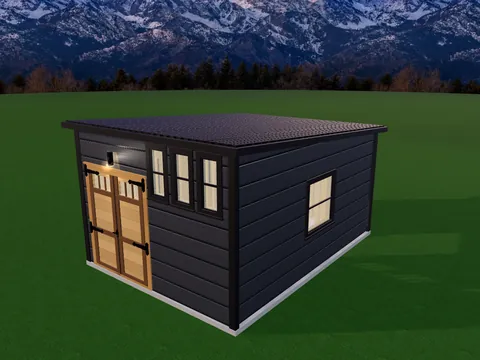
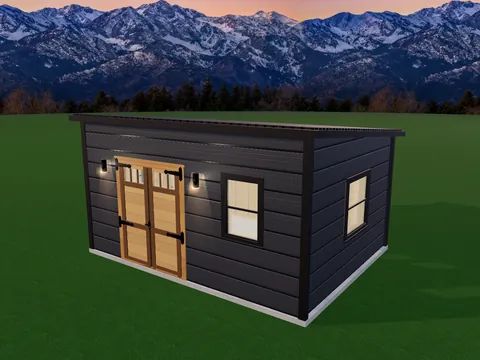
Modern Studio v2: one big Black Vinyl 24x36 window (head level with the door head) and a porch light each side of the cedar double door, on a 16x12 so nothing crowds; re-rendered thumbnail and home lean-to frames; soft brand-blue attention pulse on every link into the 3D designer site-wide (off with

diff --git a/designer.html b/designer.html
@@ -2938,23 +2938,26 @@ var STARTER_BUILDS = [
    windows:[{wall:'right',pos:0.3,w:24,h:30,type:'White Vinyl 24x30'},{wall:'right',pos:0.7,w:24,h:30,type:'White Vinyl 24x30'}],
    porchLights:[{wall:'front',pos:0.12,style:'modern'},{wall:'front',pos:0.88,style:'modern'}],
    addons:{flowerboxes:true, fbColor:'white', cupola:'copper'}}},
- {k:'modern-studio', name:'Modern Studio', sub:'12×16 Lean-To · Cedar doors, vertical transoms & power', badge:'Modern',
+ {k:'modern-studio', name:'Modern Studio', sub:'16×12 Lean-To · Cedar doors, big vertical window & 2 porch lights', badge:'Modern',
   img:'designer-starters/modern-studio.webp',
-  cfg:{style:'leanto', w:12, l:16, h:9, siding:'horizontal',
+  cfg:{style:'leanto', w:16, l:12, h:9, siding:'horizontal',
    sidingColor:0x3C3F43, trimColor:0x1A1A1A, roofColor:0x1A1A1A, roofType:'metal', ovh:6, ovType:'all4', soffit:'cedar',
    foundation:'pad', elec:'core',
-   doors:[{wall:'front',pos:0.04,style:'cedar',w:60,h:76}],
-   /* Front: a row of three tall, narrow vertical transoms (the existing
-      "Vertical Transom 12x30" option, priced like any other transom) set high
-      under the roofline, evenly spaced across the wall beside the door. cy is
-      explicit so they sit up under the plate instead of at window height.
-      ONE porch light: the auto-placer centres it over the door head. */
-   windows:[{wall:'front',pos:0.611,w:12,h:30,cy:84,type:'Black Transom 12x30'},
-            {wall:'front',pos:0.793,w:12,h:30,cy:84,type:'Black Transom 12x30'},
-            {wall:'front',pos:0.976,w:12,h:30,cy:84,type:'Black Transom 12x30'},
+   doors:[{wall:'front',pos:0.279,style:'cedar',w:60,h:76}],
+   /* Front: the 16ft side (192in) faces you, the roof slopes back over the
+      12ft depth - same 192 sqft as a 12x16. On the 12ft side there was no
+      way to fit the 60in double door, a light each side of it and a 24in
+      window without the window jammed against a light. Laid out in inches:
+        corner | ~21 | light | 8 | casing | 60in cedar double | casing | 8 | light | ~19 | window | ~23 | corner
+      ONE big vertical window - Black Vinyl 24x36, the largest upright
+      window the pricing worker prices - with its head level with the door
+      head (cy 58 = top at 76in, the door's height). The two porch lights are
+      left to the auto-placer: one each side of the door, the same 8in of
+      siding from each casing, centred ~6ft up (the door's upper third). */
+   windows:[{wall:'front',pos:0.852,w:24,h:36,cy:58,type:'Black Vinyl 24x36'},
             {wall:'right',pos:0.5,w:36,h:36,type:'Black Vinyl 36x36'},
             {wall:'left',pos:0.3,w:14,h:36,type:'Black Transom 14x36'},{wall:'left',pos:0.7,w:14,h:36,type:'Black Transom 14x36'}],
-   porchLights:[{wall:'front',pos:0.04,style:'modern'}],
+   porchLights:[{wall:'front',pos:0.1,style:'modern'},{wall:'front',pos:0.6,style:'modern'}],
    addons:{}}}
 ];
 var SHED_USES = STARTER_BUILDS.concat([

diff --git a/pulse-3d.js b/pulse-3d.js
@@ -1,0 +1,41 @@
+/* pulse-3d.js — a soft "attention" pulse on everything that opens the 3D
+   designer (/designer): nav "Design in 3D", hero/studio/band/final CTAs,
+   footer and mobile-menu buttons, gallery "Design this style in 3D", and the
+   inline "Design your shed in 3D" links in articles.
+   Buttons get a glowing brand-blue ring that breathes out with a 3% lift
+   every 2.8s; inline text links get a gentle text glow instead (a ring around
+   a word in a sentence looks like a bug). Nothing moves with
+   prefers-reduced-motion. Not loaded on /designer itself.
+   Opt an element out with data-no-pulse. */
+(function(){
+'use strict';
+if(/^\/designer/.test(location.pathname)) return;
+var CSS=''+
+'@keyframes sp3dRing{0%{opacity:0;box-shadow:0 0 0 0 rgba(43,181,232,.55)}'+
+  '10%{opacity:1;box-shadow:0 0 0 0 rgba(43,181,232,.55),0 0 14px 2px rgba(43,181,232,.28)}'+
+  '42%{opacity:0;box-shadow:0 0 0 9px rgba(43,181,232,0),0 0 22px 6px rgba(43,181,232,0)}'+
+  '100%{opacity:0;box-shadow:0 0 0 9px rgba(43,181,232,0)}}'+
+'@keyframes sp3dLift{0%,46%,100%{scale:1}18%{scale:1.03}}'+
+'@keyframes sp3dGlow{0%,50%,100%{text-shadow:none}20%{text-shadow:0 0 10px rgba(43,181,232,.75),0 0 2px rgba(43,181,232,.5)}}'+
+'.sp3d-pulse{animation:sp3dLift 2.8s cubic-bezier(.4,0,.2,1) 1.2s infinite}'+
+'.sp3d-pulse::after{content:"";position:absolute;inset:0;border-radius:inherit;pointer-events:none;opacity:0;'+
+  'animation:sp3dRing 2.8s cubic-bezier(.4,0,.2,1) 1.2s infinite}'+
+'.sp3d-pulse:hover,.sp3d-pulse:focus-visible,.sp3d-pulse:hover::after,.sp3d-pulse:focus-visible::after{animation-play-state:paused}'+
+'.sp3d-glow{animation:sp3dGlow 2.8s ease-in-out 1.2s infinite}'+
+'@media (prefers-reduced-motion:reduce){.sp3d-pulse,.sp3d-pulse::after,.sp3d-glow{animation:none!important}}';
+function init(){
+  if(!document.getElementById('sp3d-style')){
+    var st=document.createElement('style'); st.id='sp3d-style'; st.textContent=CSS; document.head.appendChild(st);
+  }
+  var links=document.querySelectorAll('a[href="/designer"], a[href^="/designer?"], a[href^="/designer#"], a[href="https://www.shedpro-utah.com/designer"]');
+  Array.prototype.forEach.call(links, function(a){
+    if(a.hasAttribute('data-no-pulse') || a.classList.contains('device-link')) return;   // invisible overlay on the preview image
+    var cs=getComputedStyle(a);
+    var inline=(cs.display==='inline') && !a.classList.contains('btn');
+    if(inline){ a.classList.add('sp3d-glow'); return; }
+    if(cs.position==='static') a.style.position='relative';
+    a.classList.add('sp3d-pulse');
+  });
+}
+if(document.readyState==='loading') document.addEventListener('DOMContentLoaded', init); else init();
+})();

diff --git a/index.html b/index.html
@@ -678,7 +678,7 @@ footer{background:#070809;border-top:1px solid var(--border);padding:64px 0 32px
         <div class="frames" id="studioFrames">
 <img class="on" src="studio-preview-1.webp" srcset="studio-preview-1-960.webp 960w, studio-preview-1.webp 1440w" sizes="(min-width:900px) 48vw, 94vw" width="1440" height="900" alt="ShedPro Studio 3D designer showing the Classic Gable starter build: a white 10x12 Gable / A-Frame shed with black trim, double doors and two porch lights, with the ShedPro favorites panel open" decoding="async" data-label="Gable / A-Frame">
 <img src="studio-preview-2.webp" srcset="studio-preview-2-960.webp 960w, studio-preview-2.webp 1440w" sizes="(min-width:900px) 48vw, 94vw" width="1440" height="900" alt="ShedPro Studio 3D designer showing the Heritage Barn starter build: a sage green 10x20 barn shed with white trim, X-brace doors and a copper cupola" loading="lazy" decoding="async" data-label="Barn">
-<img src="studio-preview-3.webp" srcset="studio-preview-3-960.webp 960w, studio-preview-3.webp 1440w" sizes="(min-width:900px) 48vw, 94vw" width="1440" height="900" alt="ShedPro Studio 3D designer showing the Modern Studio starter build: a charcoal 12x16 lean-to with cedar doors, a row of tall vertical transom windows under the roofline and one porch light over the door" loading="lazy" decoding="async" data-label="Lean-To">
+<img src="studio-preview-3.webp" srcset="studio-preview-3-960.webp 960w, studio-preview-3.webp 1440w" sizes="(min-width:900px) 48vw, 94vw" width="1440" height="900" alt="ShedPro Studio 3D designer showing the Modern Studio starter build: a charcoal 16x12 lean-to with cedar double doors, a porch light on each side of the doors and one large vertical window" loading="lazy" decoding="async" data-label="Lean-To">
 <img src="studio-preview-4.webp" srcset="studio-preview-4-960.webp 960w, studio-preview-4.webp 1440w" sizes="(min-width:900px) 48vw, 94vw" width="1440" height="900" alt="ShedPro Studio 3D designer showing the Estate Porch Gable starter build: a navy 16x24 Gable / A-Frame shed with a covered front porch and white trim" loading="lazy" decoding="async" data-label="Gable / A-Frame porch">
           <span class="frame-label" id="frameLabel" aria-hidden="true">Gable / A-Frame</span>
         </div>
@@ -1032,4 +1032,5 @@ window.addEventListener('load',function(){var s=document.createElement('script')
 
 </script>
 <script src="/build-map.js" defer></script>
+<script src="/pulse-3d.js" defer></script>
 </body></html>

diff --git a/about.html b/about.html
@@ -187,4 +187,5 @@
   var el=document.getElementById('shTopbarMsg');
   if(el&&!reduce){var i=0;setInterval(function(){i=(i+1)%msgs.length;el.style.opacity='0';setTimeout(function(){el.textContent=msgs[i];el.style.opacity='1'},300)},4500);}
 })();
-</script><script>window.addEventListener('load', function(){var s=document.createElement('script');s.src='https://www.googletagmanager.com/gtag/js?id=G-GR8BG7DXZE';s.async=true;document.head.appendChild(s);s.onload=function(){window.dataLayer=window.dataLayer||[];function gtag(){dataLayer.push(arguments);}gtag('js',new Date());gtag('config','G-GR8BG7DXZE');};});</script></body></html>
+</script><script>window.addEventListener('load', function(){var s=document.createElement('script');s.src='https://www.googletagmanager.com/gtag/js?id=G-GR8BG7DXZE';s.async=true;document.head.appendChild(s);s.onload=function(){window.dataLayer=window.dataLayer||[];function gtag(){dataLayer.push(arguments);}gtag('js',new Date());gtag('config','G-GR8BG7DXZE');};});</script><script src="/pulse-3d.js" defer></script>
+</body></html>

diff --git a/privacy.html b/privacy.html
@@ -224,4 +224,5 @@
   var el=document.getElementById('shTopbarMsg');
   if(el&&!reduce){var i=0;setInterval(function(){i=(i+1)%msgs.length;el.style.opacity='0';setTimeout(function(){el.textContent=msgs[i];el.style.opacity='1'},300)},4500);}
 })();
-</script><script>window.addEventListener('load', function(){var s=document.createElement('script');s.src='https://www.googletagmanager.com/gtag/js?id=G-GR8BG7DXZE';s.async=true;document.head.appendChild(s);s.onload=function(){window.dataLayer=window.dataLayer||[];function gtag(){dataLayer.push(arguments);}gtag('js',new Date());gtag('config','G-GR8BG7DXZE');};});</script></body></html>
+</script><script>window.addEventListener('load', function(){var s=document.createElement('script');s.src='https://www.googletagmanager.com/gtag/js?id=G-GR8BG7DXZE';s.async=true;document.head.appendChild(s);s.onload=function(){window.dataLayer=window.dataLayer||[];function gtag(){dataLayer.push(arguments);}gtag('js',new Date());gtag('config','G-GR8BG7DXZE');};});</script><script src="/pulse-3d.js" defer></script>
+</body></html>

diff --git a/terms.html b/terms.html
@@ -217,4 +217,5 @@
   var el=document.getElementById('shTopbarMsg');
   if(el&&!reduce){var i=0;setInterval(function(){i=(i+1)%msgs.length;el.style.opacity='0';setTimeout(function(){el.textContent=msgs[i];el.style.opacity='1'},300)},4500);}
 })();
-</script><script>window.addEventListener('load', function(){var s=document.createElement('script');s.src='https://www.googletagmanager.com/gtag/js?id=G-GR8BG7DXZE';s.async=true;document.head.appendChild(s);s.onload=function(){window.dataLayer=window.dataLayer||[];function gtag(){dataLayer.push(arguments);}gtag('js',new Date());gtag('config','G-GR8BG7DXZE');};});</script></body></html>
+</script><script>window.addEventListener('load', function(){var s=document.createElement('script');s.src='https://www.googletagmanager.com/gtag/js?id=G-GR8BG7DXZE';s.async=true;document.head.appendChild(s);s.onload=function(){window.dataLayer=window.dataLayer||[];function gtag(){dataLayer.push(arguments);}gtag('js',new Date());gtag('config','G-GR8BG7DXZE');};});</script><script src="/pulse-3d.js" defer></script>
+</body></html>

diff --git a/faq.html b/faq.html
@@ -198,4 +198,5 @@
   if(el&&!reduce){var i=0;setInterval(function(){i=(i+1)%msgs.length;el.style.opacity='0';setTimeout(function(){el.textContent=msgs[i];el.style.opacity='1'},300)},4500);}
 })();
 </script><script>function toggleFaq(btn){var item=btn.closest('.faq-item');if(item){item.classList.toggle('open');}}</script><script src="/build-map.js" defer></script>
+<script src="/pulse-3d.js" defer></script>
 </body></html>

diff --git a/blog.html b/blog.html
@@ -177,4 +177,5 @@
   var el=document.getElementById('shTopbarMsg');
   if(el&&!reduce){var i=0;setInterval(function(){i=(i+1)%msgs.length;el.style.opacity='0';setTimeout(function(){el.textContent=msgs[i];el.style.opacity='1'},300)},4500);}
 })();
-</script></body></html>
+</script><script src="/pulse-3d.js" defer></script>
+</body></html>

diff --git a/gallery.html b/gallery.html
@@ -710,4 +710,5 @@
   });
 })();
 
-</script></body></html>
+</script><script src="/pulse-3d.js" defer></script>
+</body></html>

diff --git a/contact.html b/contact.html
@@ -238,4 +238,5 @@
   };
 })();
 </script>
+<script src="/pulse-3d.js" defer></script>
 </body></html>

diff --git a/blog-adu-rising-cost-of-living.html b/blog-adu-rising-cost-of-living.html
@@ -305,5 +305,6 @@
 })();
 </script>
 
+<script src="/pulse-3d.js" defer></script>
 </body>
 </html>

diff --git a/blog-shed-adds-property-value.html b/blog-shed-adds-property-value.html
@@ -458,5 +458,6 @@
 })();
 </script>
 
+<script src="/pulse-3d.js" defer></script>
 </body>
 </html>
